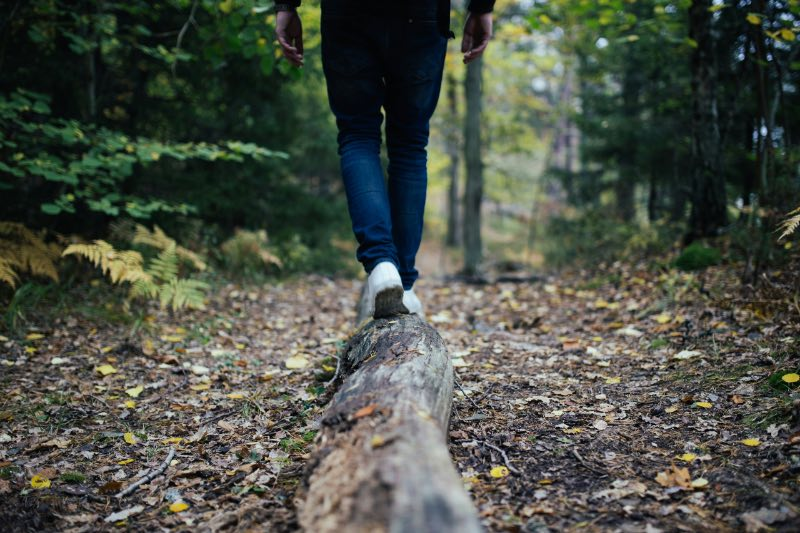
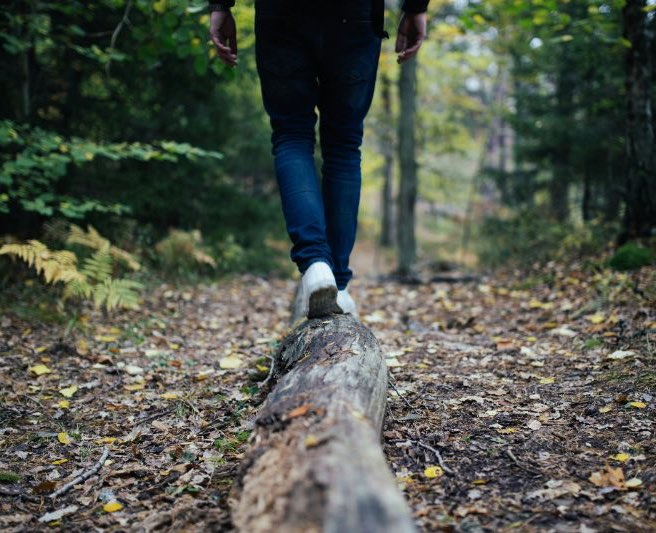
final updates

diff --git a/wwr/styles/rafting.css b/wwr/styles/rafting.css
@@ -74,10 +74,6 @@ a:link, button:visited, a:visited, button:link {
     color: var(--accent2-color);  
 }
 
-a:hover {
-    color: var(--accent2-color);
-    background-color: #39531C;
-}
 
 .navigation ul{
     display: flex;
@@ -106,7 +102,7 @@ a:hover {
 .hero img {
     grid-column: 1 / 4;
     width: 100%;
-    height: 700px;
+    height: 600px;
 }
 
 .hero blockquote {
@@ -118,7 +114,7 @@ a:hover {
     letter-spacing: 3px;
     font-style: italic; 
     width: 60%;
-    height: 700px;    
+    height: 600px;    
 }
 
 .hero blockquote h1 {
@@ -348,10 +344,6 @@ button{
     margin-top: 5px;
 }
 
-button:hover {
-    color: var(--accent1-color);
-    background-color: var(--accent2-color);
-}
 
 .contact-info iframe {
     width: 90%;
@@ -481,11 +473,6 @@ footer p {
 .socialmedia a:link, .socialmedia a:visited {
     text-decoration: none;
     color: var(--accent2-color);  
-    border: none;
-    background-color: var(--primary-color);
-}
-
-.socialmedia a:hover, .socialmedia img {
     border: none;
     background-color: var(--primary-color);
 }
